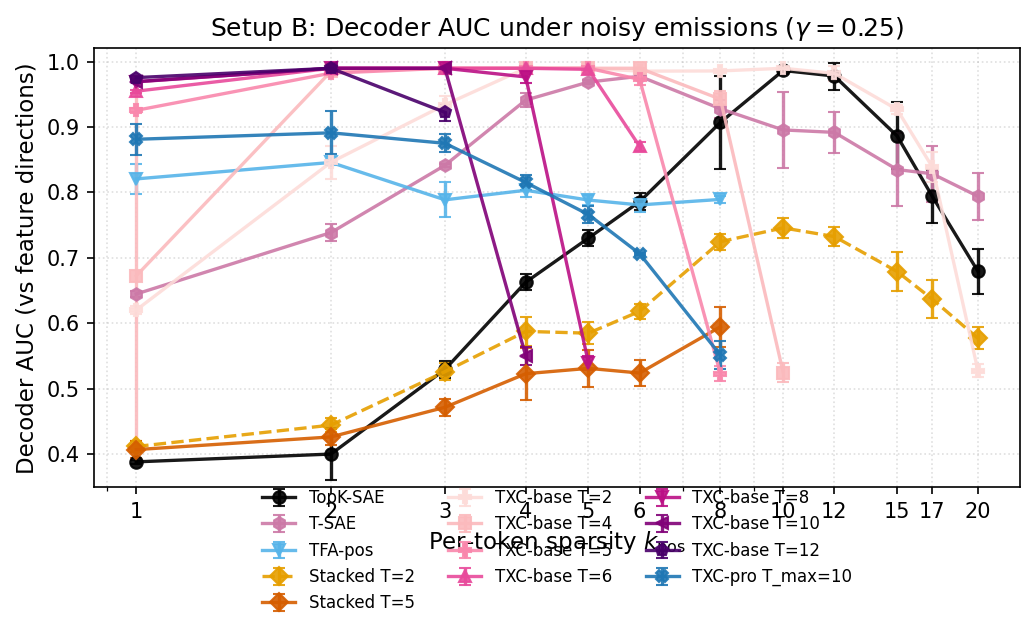
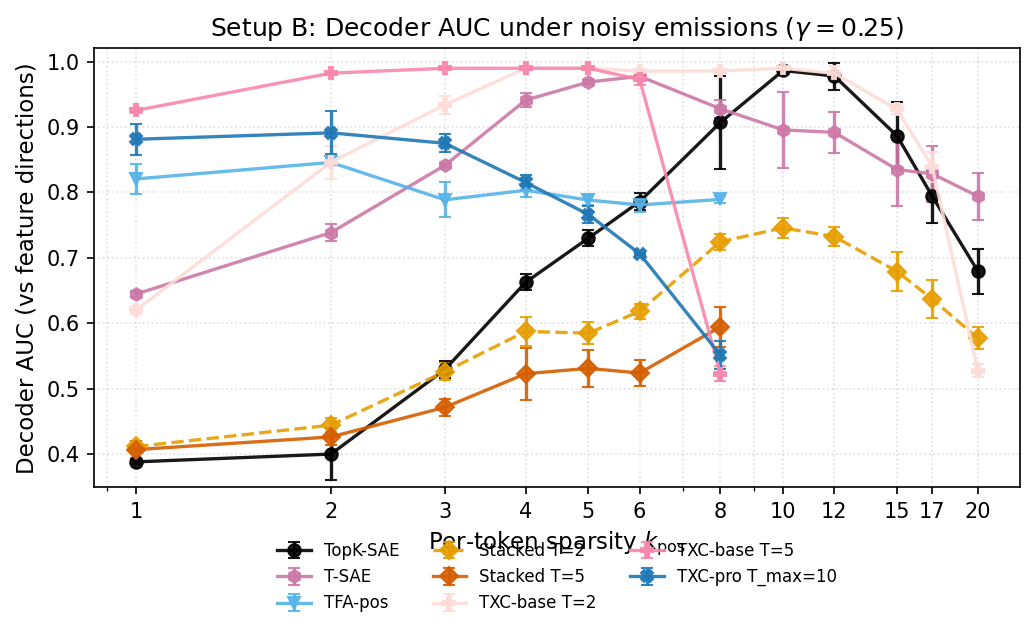
Agent FILLER: ρ-sweep DONE — re-render Setup A+B AUTO-RESULTS, ρ-sweep, Pareto

diff --git a/purified/docs/components/c2.md b/purified/docs/components/c2.md
@@ -81,27 +81,27 @@ hidden chain directions.
 
 | arch | T | k=1 | k=2 | k=3 | k=4 | k=5 | k=6 | k=7 | k=8 | k=10 | k=12 | k=15 | k=17 | k=20 |
 |---|---|---:|---:|---:|---:|---:|---:|---:|---:|---:|---:|---:|---:|---:|
-| `topk_sae` | default | 0.588±0.191 | 0.732±0.164 | 0.705±0.153 | 0.678±0.167 | 0.641±0.160 | 0.642±0.158 | 0.531±0.082 | 0.645±0.165 | 0.508±0.146 | 0.690±0.022 | 0.433±0.108 | 0.652±0.007 | 0.468±0.112 |
-| `tsae_paper` | default | 0.898±0.011 | 0.860±0.034 | 0.866±0.027 | 0.902±0.018 | 0.833±0.011 | 0.846±0.003 | — | 0.835±0.022 | 0.844±0.028 | 0.861±0.028 | 0.871±0.042 | 0.872±0.005 | 0.869±0.004 |
-| `stacked_sae` | T=2 | 0.581±0.146 | 0.715±0.154 | 0.661±0.136 | 0.645±0.134 | 0.630±0.091 | 0.612±0.056 | 0.596±0.046 | 0.600±0.045 | 0.625±0.028 | 0.567±0.043 | 0.556±0.014 | 0.531±0.005 | 0.551±0.022 |
+| `topk_sae` | default | 0.522±0.260 | 0.617±0.257 | 0.579±0.216 | 0.593±0.159 | 0.618±0.154 | 0.596±0.161 | 0.531±0.082 | 0.616±0.204 | 0.508±0.146 | 0.690±0.022 | 0.433±0.108 | 0.652±0.007 | 0.468±0.112 |
+| `tsae_paper` | default | 0.623±0.300 | 0.592±0.271 | 0.558±0.259 | 0.553±0.198 | 0.561±0.175 | 0.573±0.174 | — | 0.542±0.186 | 0.844±0.028 | 0.861±0.028 | 0.871±0.042 | 0.872±0.005 | 0.869±0.004 |
+| `stacked_sae` | T=2 | 0.479±0.240 | 0.550±0.264 | 0.540±0.227 | 0.520±0.162 | 0.521±0.139 | 0.516±0.128 | 0.596±0.046 | 0.522±0.141 | 0.625±0.028 | 0.567±0.043 | 0.556±0.014 | 0.531±0.005 | 0.551±0.022 |
 | `stacked_sae` | default | 0.540±0.174 | 0.621±0.231 | 0.608±0.208 | 0.612±0.184 | 0.598±0.159 | 0.553±0.120 | — | 0.550±0.081 | — | — | — | — | — |
 | `txc_base` | default | 0.883±0.127 | 0.811±0.154 | 0.830±0.166 | 0.770±0.159 | 0.671±0.152 | 0.691±0.134 | 0.578±0.040 | 0.526±0.142 | — | — | — | — | — |
-| `txc_pro` | T=2 | 0.920±0.149 | 0.848±0.169 | 0.783±0.179 | 0.712±0.189 | 0.715±0.221 | 0.773±0.228 | — | 0.807±0.055 | 0.679±0.066 | 0.631±0.104 | 0.490±0.022 | 0.476±0.034 | 0.352±0.024 |
-| `txc_pro` | T=5 | 0.860±0.189 | 0.782±0.194 | 0.699±0.185 | 0.681±0.197 | 0.630±0.124 | 0.597±0.015 | — | 0.674±0.048 | 0.604±0.017 | 0.573±0.050 | 0.569±0.018 | 0.548±0.017 | 0.487±0.064 |
-| `txc_pro` | T=12 | 0.858±0.041 | 0.842±0.020 | 0.714±0.042 | 0.664±0.062 | 0.678±0.025 | 0.607±0.028 | — | 0.567±0.014 | 0.591±0.020 | 0.561±0.000 | — | — | — |
+| `txc_pro` | T=2 | 0.938±0.131 | 0.848±0.169 | 0.783±0.179 | 0.712±0.189 | 0.805±0.185 | 0.773±0.228 | — | 0.807±0.055 | 0.679±0.066 | 0.631±0.104 | 0.490±0.022 | 0.476±0.034 | 0.352±0.024 |
+| `txc_pro` | T=5 | 0.894±0.153 | 0.782±0.194 | 0.699±0.185 | 0.681±0.197 | 0.660±0.094 | 0.597±0.015 | — | 0.674±0.048 | 0.604±0.017 | 0.573±0.050 | 0.569±0.018 | 0.548±0.017 | 0.487±0.064 |
+| `txc_pro` | T=12 | 0.857±0.027 | 0.842±0.020 | 0.714±0.042 | 0.664±0.062 | 0.647±0.034 | 0.607±0.028 | — | 0.567±0.014 | 0.591±0.020 | 0.561±0.000 | — | — | — |
 
 **eAUC (emission feature recovery) vs k_pos**
 
 | arch | T | k=1 | k=2 | k=3 | k=4 | k=5 | k=6 | k=7 | k=8 | k=10 | k=12 | k=15 | k=17 | k=20 |
 |---|---|---:|---:|---:|---:|---:|---:|---:|---:|---:|---:|---:|---:|---:|
-| `topk_sae` | default | 0.350±0.124 | 0.611±0.204 | 0.694±0.168 | 0.794±0.163 | 0.847±0.142 | 0.853±0.108 | 0.847±0.106 | 0.888±0.095 | 0.941±0.065 | 0.800±0.018 | 0.889±0.059 | 0.788±0.069 | 0.731±0.060 |
-| `tsae_paper` | default | 0.653±0.035 | 0.711±0.007 | 0.780±0.023 | 0.721±0.008 | 0.670±0.033 | 0.616±0.034 | — | 0.592±0.029 | 0.564±0.015 | 0.562±0.026 | 0.548±0.011 | 0.556±0.011 | 0.554±0.004 |
-| `stacked_sae` | T=2 | 0.301±0.068 | 0.473±0.122 | 0.564±0.093 | 0.612±0.086 | 0.642±0.068 | 0.650±0.053 | 0.672±0.043 | 0.674±0.047 | 0.654±0.024 | 0.646±0.027 | 0.634±0.008 | 0.601±0.016 | 0.613±0.008 |
+| `topk_sae` | default | 0.316±0.131 | 0.501±0.229 | 0.542±0.204 | 0.762±0.180 | 0.831±0.142 | 0.846±0.100 | 0.847±0.106 | 0.850±0.113 | 0.941±0.065 | 0.800±0.018 | 0.889±0.059 | 0.788±0.069 | 0.731±0.060 |
+| `tsae_paper` | default | 0.443±0.160 | 0.547±0.212 | 0.610±0.254 | 0.734±0.216 | 0.739±0.174 | 0.725±0.130 | — | 0.722±0.104 | 0.564±0.015 | 0.562±0.026 | 0.548±0.011 | 0.556±0.011 | 0.554±0.004 |
+| `stacked_sae` | T=2 | 0.290±0.084 | 0.389±0.136 | 0.457±0.143 | 0.593±0.099 | 0.630±0.071 | 0.646±0.057 | 0.672±0.043 | 0.645±0.074 | 0.654±0.024 | 0.646±0.027 | 0.634±0.008 | 0.601±0.016 | 0.613±0.008 |
 | `stacked_sae` | default | 0.279±0.044 | 0.425±0.082 | 0.483±0.061 | 0.505±0.048 | 0.526±0.045 | 0.542±0.034 | — | 0.552±0.016 | — | — | — | — | — |
 | `txc_base` | default | 0.674±0.134 | 0.775±0.093 | 0.756±0.095 | 0.742±0.112 | 0.765±0.096 | 0.651±0.110 | 0.613±0.065 | 0.476±0.076 | — | — | — | — | — |
-| `txc_pro` | T=2 | 0.633±0.138 | 0.694±0.164 | 0.755±0.192 | 0.876±0.085 | 0.830±0.106 | 0.820±0.114 | — | 0.765±0.009 | 0.801±0.052 | 0.777±0.020 | 0.706±0.033 | 0.658±0.005 | 0.526±0.012 |
-| `txc_pro` | T=5 | 0.552±0.070 | 0.609±0.082 | 0.670±0.070 | 0.700±0.092 | 0.699±0.091 | 0.693±0.011 | — | 0.715±0.027 | 0.728±0.017 | 0.727±0.026 | 0.670±0.005 | 0.641±0.031 | 0.573±0.021 |
-| `txc_pro` | T=12 | 0.511±0.025 | 0.606±0.009 | 0.565±0.016 | 0.590±0.020 | 0.603±0.040 | 0.619±0.024 | — | 0.635±0.013 | 0.628±0.019 | 0.612±0.000 | — | — | — |
+| `txc_pro` | T=2 | 0.650±0.121 | 0.694±0.164 | 0.755±0.192 | 0.876±0.085 | 0.796±0.085 | 0.820±0.114 | — | 0.765±0.009 | 0.801±0.052 | 0.777±0.020 | 0.706±0.033 | 0.658±0.005 | 0.526±0.012 |
+| `txc_pro` | T=5 | 0.559±0.056 | 0.609±0.082 | 0.670±0.070 | 0.700±0.092 | 0.690±0.058 | 0.693±0.011 | — | 0.715±0.027 | 0.728±0.017 | 0.727±0.026 | 0.670±0.005 | 0.641±0.031 | 0.573±0.021 |
+| `txc_pro` | T=12 | 0.523±0.014 | 0.606±0.009 | 0.565±0.016 | 0.590±0.020 | 0.592±0.021 | 0.619±0.024 | — | 0.635±0.013 | 0.628±0.019 | 0.612±0.000 | — | — | — |
 
 _Cells aggregated over seeds; n shown per cell. Filter: `component='c2'`, `smoke=False`._
 
@@ -173,12 +173,12 @@ linear probe ratio $R^2_{\rm global}/R^2_{\rm local}$ (denoising).
 | `stacked_sae` | T=2 | 0.412±0.009 | 0.445±0.010 | 0.526±0.013 | 0.588±0.022 | 0.585±0.016 | 0.618±0.012 | 0.725±0.012 | 0.746±0.015 | 0.733±0.014 | 0.679±0.030 | 0.637±0.029 | 0.577±0.017 |
 | `stacked_sae` | default | 0.407±0.012 | 0.427±0.012 | 0.472±0.013 | 0.523±0.040 | 0.531±0.029 | 0.524±0.019 | 0.595±0.031 | — | — | — | — | — |
 | `txc_base` | T=2 | 0.620±0.006 | 0.846±0.025 | 0.934±0.014 | 0.990±0.000 | 0.990±0.000 | 0.985±0.001 | 0.986±0.002 | 0.990±0.000 | 0.982±0.011 | 0.927±0.007 | 0.839±0.023 | 0.528±0.010 |
-| `txc_base` | T=4 | 0.673±0.280 | 0.985±0.003 | 0.990±0.000 | 0.990±0.000 | 0.990±0.000 | 0.990±0.000 | 0.943±0.013 | 0.525±0.015 | — | — | — | — |
+| `txc_base` | T=4 | — | — | — | — | — | — | — | — | — | — | — | — |
 | `txc_base` | default | 0.926±0.004 | 0.982±0.001 | 0.990±0.000 | 0.990±0.000 | 0.990±0.000 | 0.973±0.009 | 0.523±0.011 | — | — | — | — | — |
-| `txc_base` | T=6 | 0.955±0.002 | 0.990±0.000 | 0.990±0.000 | 0.990±0.000 | 0.988±0.001 | 0.870±0.007 | — | — | — | — | — | — |
-| `txc_base` | T=8 | 0.969±0.001 | 0.990±0.000 | 0.990±0.000 | 0.977±0.009 | 0.540±0.010 | — | — | — | — | — | — | — |
-| `txc_base` | T=10 | 0.969±0.000 | 0.990±0.000 | 0.990±0.000 | 0.550±0.013 | — | — | — | — | — | — | — | — |
-| `txc_base` | T=12 | 0.976±0.003 | 0.990±0.000 | 0.922±0.013 | — | — | — | — | — | — | — | — | — |
+| `txc_base` | T=6 | — | — | — | — | — | — | — | — | — | — | — | — |
+| `txc_base` | T=8 | — | — | — | — | — | — | — | — | — | — | — | — |
+| `txc_base` | T=10 | — | — | — | — | — | — | — | — | — | — | — | — |
+| `txc_base` | T=12 | — | — | — | — | — | — | — | — | — | — | — | — |
 | `txc_pro` | default | 0.881±0.024 | 0.891±0.033 | 0.875±0.014 | 0.815±0.012 | 0.766±0.013 | 0.706±0.002 | 0.551±0.021 | — | — | — | — | — |
 
 _Cells aggregated over seeds. Filter: `component='c1_noisy'`, `smoke=False`. Skipped cells (k_train > arch budget at toy d_sae=40) appear as `—`._
